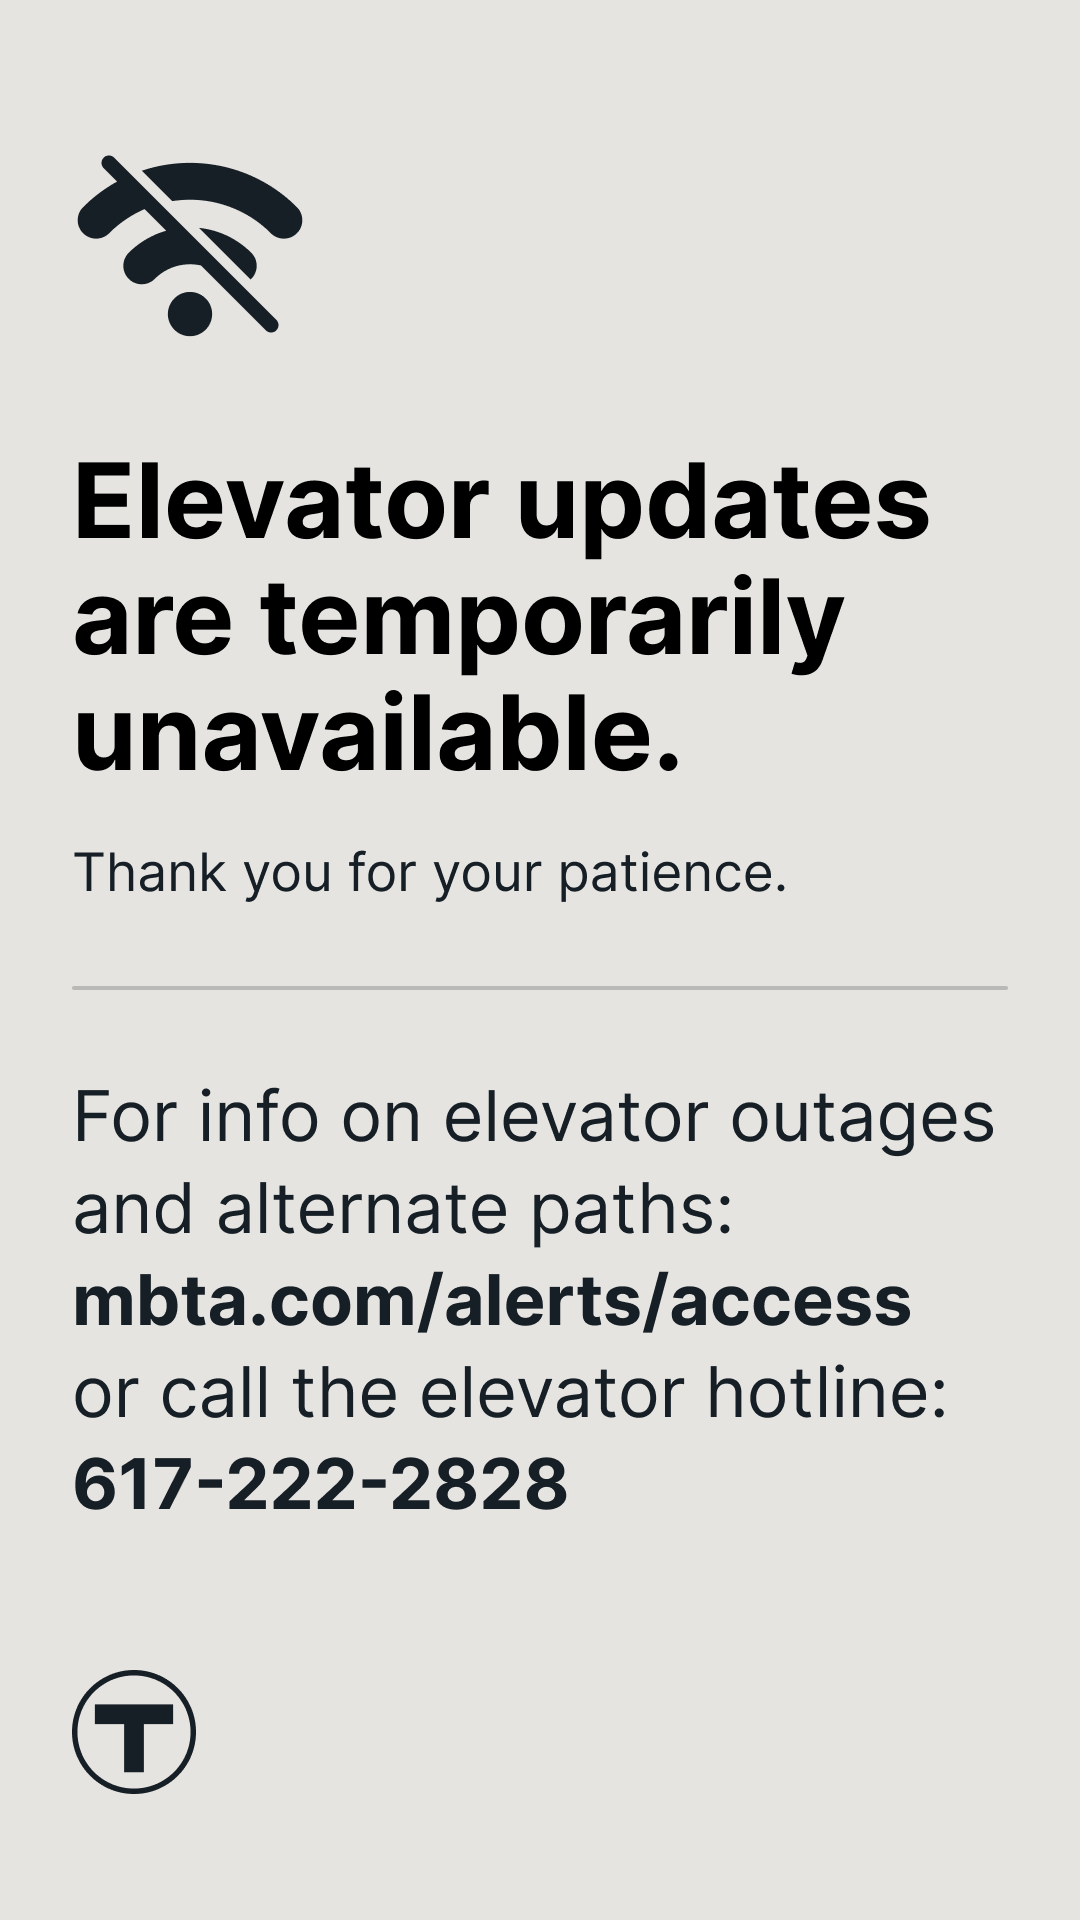
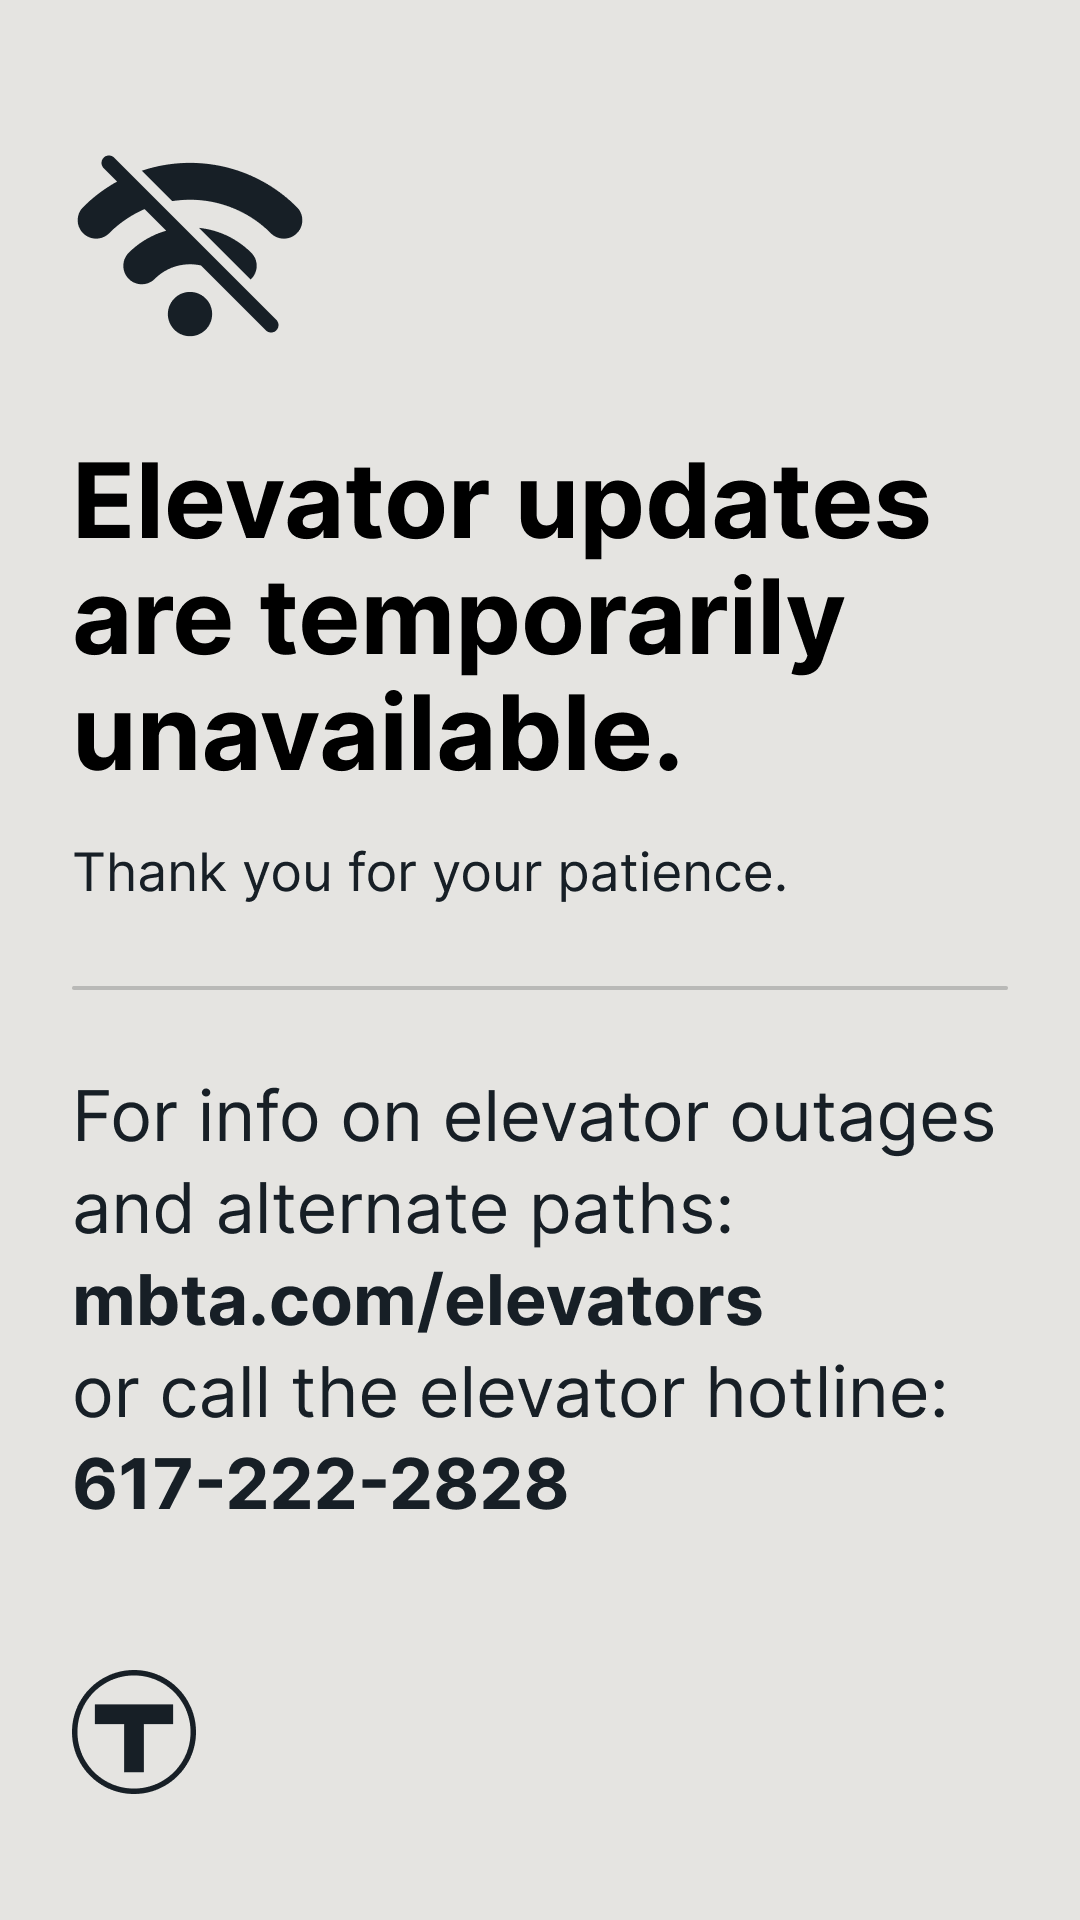
chore: Update elevator info website link on elevator screens (#2403)

Changed region(s): [[0.4278, 0.6562, 0.8556, 0.6875]]

diff --git a/assets/src/components/v2/elevator_status.tsx b/assets/src/components/v2/elevator_status.tsx
@@ -84,7 +84,7 @@ const ElevatorStatus: ComponentType<Props> = ({
         <div className="elevator-status__footer">
           <div className="elevator-status__footer-text">
             For more elevator alerts and directions to alternate accessible
-            paths, visit mbta.com/alerts/access or call 617-222-2828
+            paths, visit mbta.com/elevators or call 617-222-2828
           </div>
         </div>
       </div>

diff --git a/assets/src/components/v2/elevator/footer.tsx b/assets/src/components/v2/elevator/footer.tsx
@@ -4,7 +4,7 @@ import { classWithModifier } from "Util/utils";
 const Footer = ({ variant }: { variant: string | null }) => {
   return (
     <div className={classWithModifier("footer", variant)}>
-      For more info and alternate paths: <b>mbta.com/alerts/access</b> or{" "}
+      For more info and alternate paths: <b>mbta.com/elevators</b> or{" "}
       <b>617-222-2828</b>
     </div>
   );
